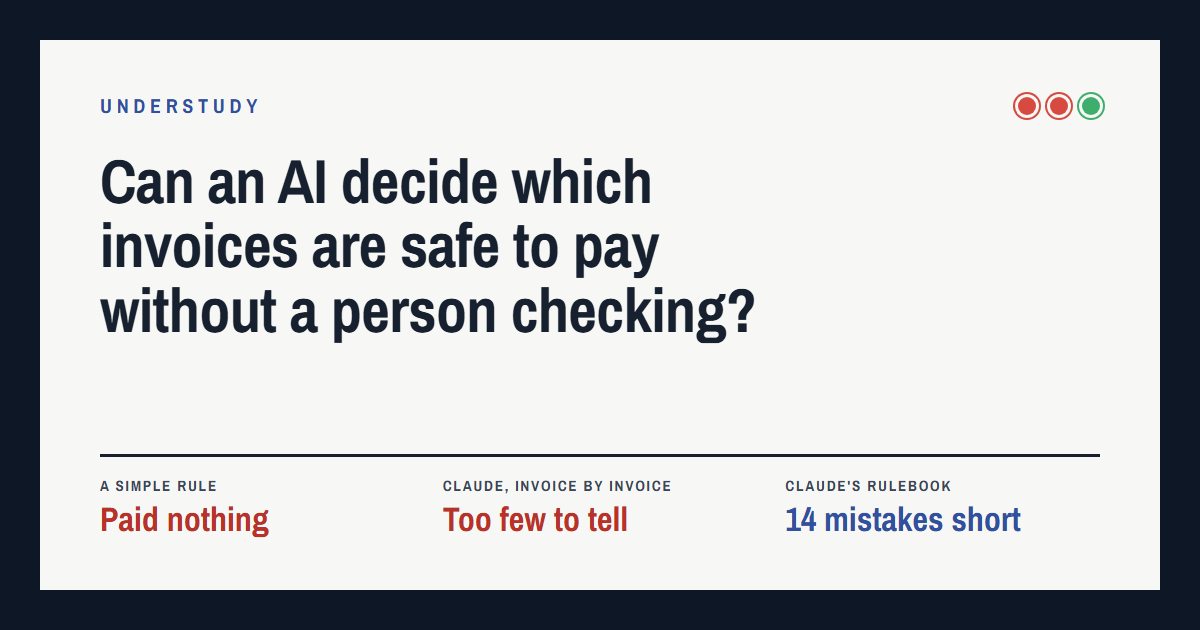
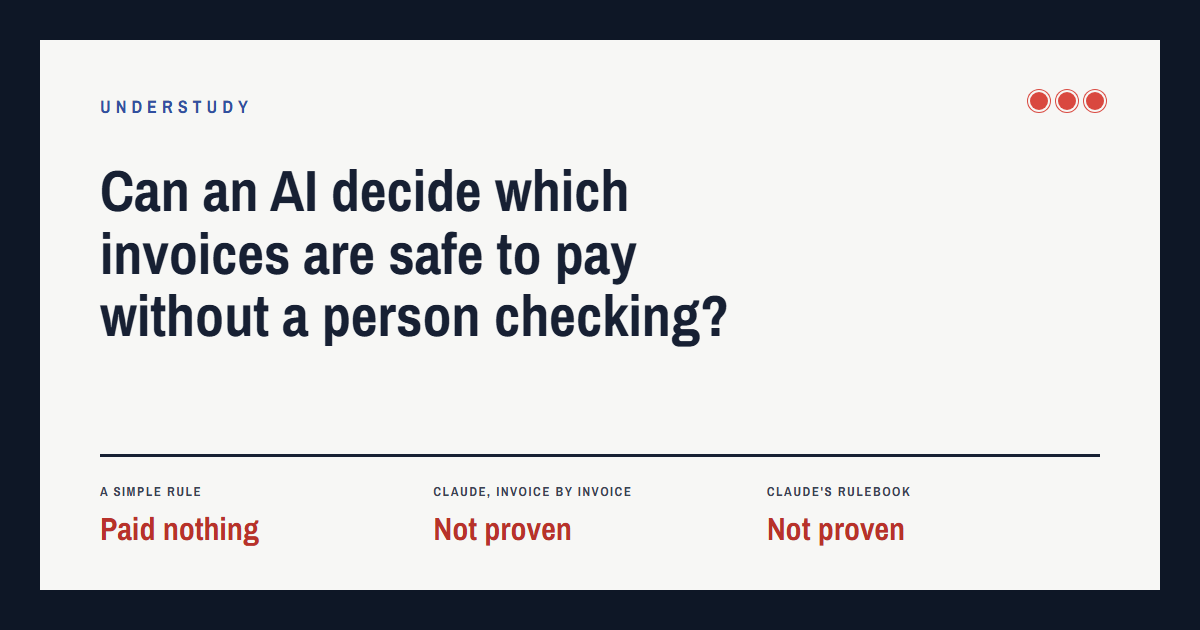
Not proven, not "N mistakes short"
The rulebook's result now reads "Not proven": about 99% right on what it
paid (99.07%), worst likely case 98.95%, and about 98.8% allowing for
invoices on the same order (purchase-order design effect 3.56; resampling
whole orders gives 98.85% to 99.27%). Paying every invoice is shown beside
it (96.85%), and so is the drop from the learning months' worst likely case
(99.57%) to the test's. "14 mistakes short", "a hair under" and "just
short of the proof" are gone from Q1, Q3 and Q9. Claude checking each
invoice reads "About 1% wrong", about the same as the rulebook on what it
paid while paying far fewer, instead of "Too few to tell". The share image
and its alt text say "Not proven" for both. The ADR 0016 verdict sentence
stays verbatim in the detail fold. Figures from data.json (evidence).

Claude-Session: https://claude.ai/code/session_017ejETrXEFeHX2B9QCMj5wj

diff --git a/site/app.js b/site/app.js
@@ -93,7 +93,7 @@ function biz(d) {
   <p><strong>Keeping it honest.</strong> I locked the test invoices before any approach ran, wrote each rule down before the run it governed, except one: I changed how the approaches are compared after one result was known, so I show the verdict under both rules (they agree). I published the results that went against me. A second program recounted the records independently.</p>
   <h3>The result</h3>
   ${summaryStrip(d)}
-  <p>None of the three proved the 99% bar. The simple rule paid nothing. Claude checking each invoice paid only ${b2 ? `${int(b2.b_alone.passed)} of ${int(b2.b_alone.n)} invoices in the follow-up (${int(b2.b_alone.wrong)} wrong)` : `${int(d.b.sample.passed)} of ${int(d.sample_n)}`}, too few to prove the bar, and costs about $${bPer1k.toFixed(2)} for every 1,000 invoices, for as long as it runs. Claude's rulebook paid ${pct(c.held_out.coverage[0] / d.held_out_n, 1)} of invoices and got ${pct(c.held_out.precision[0] / c.held_out.precision[1], 2)} of those right, a hair under the proof I asked for (worst likely case ${pct(c.held_out.precision_lower, 2)}). The rest of this section is about the rulebook, the only approach close enough to be worth a pilot.</p>
+  <p>None of the three proved the 99% bar. The simple rule paid nothing. Claude checking each invoice paid only ${b2 ? `${int(b2.b_alone.passed)} of ${int(b2.b_alone.n)} invoices in the follow-up (${int(b2.b_alone.wrong)} wrong)` : `${int(d.b.sample.passed)} of ${int(d.sample_n)}`}, too few to prove the bar, and costs about $${bPer1k.toFixed(2)} for every 1,000 invoices, for as long as it runs. Claude's rulebook paid ${pct(c.held_out.coverage[0] / d.held_out_n, 1)} of invoices and got ${pct(c.held_out.precision[0] / c.held_out.precision[1], 2)} of those right. That is not proven: its worst likely case is ${pct(c.held_out.precision_lower, 2)}, about ${pct(d.evidence.clustering.clustered_lower, 1)} allowing for invoices on the same order, against ${pct(d.bar.pass_everything.full.precision[0] / d.bar.pass_everything.full.precision[1], 2)} for paying every invoice. The rest of this section is about the rulebook, the only approach close enough to be worth a pilot.</p>
   <div class="cost biz-tiles">
   ${tile("Order lines it would have paid", `>${int(b.paid)}`, `of ${int(d.held_out_n)} in the ${word(b.months)} test months (${pct(b.paid / d.held_out_n, 1)}), in about ${int(b.groups_paid)} invoice groups`)}
   ${tile("Lines where the records show a person's own step", `>${pct(iso, 1)}`, `${int(fp.isolated_paid)} of ${int(b.paid)}: a step besides the clearing, not part of a bulk posting. A footprint, not proof of review.`)}
@@ -259,7 +259,8 @@ function q1(d) {
   const no = (t) => `<span class="state standby">${t}</span>`;
   const plain = `<h1 id="q1-h">Can an AI decide which invoices are safe to pay without a person checking?</h1>
   <p class="jump"><a href="#biz">Here for the business decision? Jump to the business case &rarr;</a><br><a href="rfp.html">Ready to run a pilot? Read the formal pilot request (RFP) &rarr;</a></p>
-  <p class="headline">Not at the bar I set. Claude's rulebook paid about half the invoices on its own and got about 99 in 100 of those right, just short of the proof I asked for.</p>
+  <p class="headline">Not proven at the bar I set. Claude's rulebook paid about half the invoices on its own and got about 99 in 100 of those right, but its worst likely case is under 99%.</p>
+  <p>${notProven(d)}</p>
   ${summaryStrip(d)}
   <h2 class="sub">Why this study</h2>
   <p>Many companies are deciding where AI should take on work that people do today. The evidence is often a demo, or a pilot that "looked good". I wanted a stricter test on real records: take one decision staff make thousands of times, let an AI make it, and check every call against what really happened.</p>
@@ -278,18 +279,18 @@ function q1(d) {
   <div class="tablewrap"><table class="score"><caption>What each AI did</caption><thead><tr><th>Approach</th><th>Paid without a check</th><th>Later needed fixing</th><th>Proved 99%?</th></tr></thead><tbody>
   <tr><td>Pay every invoice (for comparison)</td><td>${int(pe[1])}</td><td>${int(peWrong)} (${oneIn(pe[1], peWrong)})</td><td>${no("No")}</td></tr>
   <tr><td>1. Simple rule</td><td>${int(aPasses)}</td><td>&ndash;</td><td>${no("Paid nothing")}</td></tr>
-  <tr><td>2. Claude checking each invoice*</td><td>${int(bp)} of ${int(d.sample_n)}</td><td>${int(be)}</td><td>${no("Too few to tell")}</td></tr>
-  <tr class="chosen"><td>3. Claude's rulebook</td><td>${int(cn)} (${pct(cn / d.held_out_n, 0)})</td><td>${int(cWrong)} (${oneIn(cn, cWrong)})</td><td>${no("Just short")}</td></tr>
+  <tr><td>2. Claude checking each invoice*</td><td>${int(bp)} of ${int(d.sample_n)}</td><td>${int(be)}</td><td>${no("Not proven")}</td></tr>
+  <tr class="chosen"><td>3. Claude's rulebook</td><td>${int(cn)} (${pct(cn / d.held_out_n, 0)})</td><td>${int(cWrong)} (${oneIn(cn, cWrong)})</td><td>${no("Not proven")}</td></tr>
   </tbody></table></div>
   <p class="small">* Checking each invoice costs a request to the AI every time, so it was first tested on ${int(d.sample_n)} invoices, not all ${int(d.held_out_n)}. A follow-up on ${d.b2 && d.b2.b_alone ? int(d.b2.b_alone.n) : "more"} new invoices is in Q3.</p>
-  <p>Why "just short"? The rulebook paid ${int(cn)} invoices. To prove 99% with that many, at most ${int(allowed)} could need fixing. ${int(cWrong)} did: ${int(cWrong - allowed)} too many.</p>
+  <p>Why not proven? The rulebook paid ${int(cn)} invoices. To prove 99% with that many, at most ${int(allowed)} could need fixing; ${int(cWrong)} did. That count treats every invoice as independent. Many share an order, and allowing for that the worst likely case falls further, to ${pct(d.evidence.clustering.clustered_lower, 2)}.</p>
   <ul class="bars budget" aria-label="Rulebook mistakes against the most it could make and still prove 99%">
   <li><span class="name">Most it could make</span><span class="track" aria-hidden="true"><span class="fill ok" style="width:${(allowed / cWrong) * 100}%"></span></span><span class="val">${int(allowed)}</span></li>
   <li class="hit"><span class="name">What it made</span><span class="track" aria-hidden="true"><span class="fill" style="width:100%"></span></span><span class="val">${int(cWrong)}</span></li>
   </ul>
   ${openButton("c_wrong_held_out", `See the ${int(cWrong)} invoices the rulebook paid wrongly`)}`;
   const detail = `<p class="headline">${esc(headline)}</p>
-  <p><strong>What this means.</strong> None of the three earned trust. The simple rule never paid anything, so it never made a mistake, but it never saved any work either. Claude's rulebook paid ${pct(cn / d.held_out_n, 1)} of the test invoices without a check, and ${pct(ck / cn, 2)} of those were fine, so on average it met the bar. But its worst likely case (the "lower bound" above) is ${pct(c.held_out.precision_lower, 2)}, a hair under 99%. ${int(cWrong - allowed)} fewer mistakes out of ${int(cn)} would have changed the answer.</p>
+  <p><strong>What this means.</strong> None of the three earned trust. The simple rule never paid anything, so it never made a mistake, but it never saved any work either. Claude's rulebook paid ${pct(cn / d.held_out_n, 1)} of the test invoices without a check, and ${pct(ck / cn, 2)} of those were fine, so on average it met the bar. But its worst likely case (the "lower bound" above) is ${pct(c.held_out.precision_lower, 2)}, under 99%, so it is not proven. ${fitDrop(d)} ${clusterNote(d)}</p>
   ${boundPlot(d)}
   <div class="verdict">
   <p class="say"><b><s>First comparison rule</s> <em>replaced, kept on the record</em></b><span>Nothing reached a worst likely case of 99% on the shared sample (rulebook ${pct(cs, 1)}, checking each invoice ${pct(d.b.lower, 1)}), so the simple rule wins by default.</span></p>
@@ -303,14 +304,28 @@ function q1(d) {
   ]);
 }
 
+/* ---------- Not proven: the rulebook's result in plain words, with the figures that qualify it ---------- */
+function notProven(d) {
+  const c = d.policies.find((p) => p.chosen), [ck, cn] = c.held_out.precision, pe = d.bar.pass_everything.full.precision;
+  return `It was about 99% right on what it paid (${pct(ck / cn, 2)}), but not proven: the worst likely case is ${pct(c.held_out.precision_lower, 2)}, and about ${pct(d.evidence.clustering.clustered_lower, 1)} allowing for invoices on the same order. Paying every invoice with no checks at all would have been ${pct(pe[0] / pe[1], 2)} right. ${fitDrop(d)}`;
+}
+function fitDrop(d) {
+  const c = d.policies.find((p) => p.chosen);
+  return `In the learning months its worst likely case was ${pct(c.fit_lower, 2)}; on the test months it fell to ${pct(c.held_out.precision_lower, 2)}.`;
+}
+function clusterNote(d) {
+  const k = d.evidence.clustering;
+  return `The bound treats each invoice as independent. ${int(k.n)} invoices sit on ${int(k.orders)} orders, and mistakes cluster on orders (design effect ${k.deff.toFixed(2)}): allowing for that, the worst likely case is ${pct(k.clustered_lower, 2)}, and resampling whole orders gives ${pct(k.boot[0], 2)} to ${pct(k.boot[1], 2)}.`;
+}
+
 /* ---------- Q1 summary strip and invoice journey ---------- */
 function summaryStrip(d) {
-  const c = d.policies.find((p) => p.chosen), [ck, cn] = c.held_out.precision, short = cn - ck - maxErrors(cn);
+  const c = d.policies.find((p) => p.chosen), [ck, cn] = c.held_out.precision, pe = d.bar.pass_everything.full.precision[0] / d.bar.pass_everything.full.precision[1];
   const b2 = d.b2 && d.b2.b_alone ? d.b2.b_alone : null;
   const items = [
     ["A simple rule", "Paid nothing", "No kind of invoice had a clean enough record."],
-    ["Claude checking each invoice", "Too few to tell", b2 ? `Paid ${pct(b2.coverage, 1)} of ${int(b2.n)} new invoices; not proven.` : "Paid too few to prove anything."],
-    ["Claude's rulebook", `${int(short)} mistakes short`, `Paid ${pct(cn / d.held_out_n, 0)} of invoices, ${pct(ck / cn, 2)} fine.`],
+    ["Claude checking each invoice", b2 ? `About ${pct(b2.wrong / b2.passed, 0)} wrong` : "Not proven", b2 ? `On what it paid, about the same as the rulebook (${pct((cn - ck) / cn, 2)}), paying far fewer: ${pct(b2.coverage, 1)} of ${int(b2.n)} new invoices. Not proven.` : "Paid too few to prove anything."],
+    ["Claude's rulebook", "Not proven", `About 99% right on the ${pct(cn / d.held_out_n, 0)} it paid (worst likely case ${pct(c.held_out.precision_lower, 2)}; about ${pct(d.evidence.clustering.clustered_lower, 1)} allowing for orders). Paying everything: ${pct(pe, 2)}.`],
   ];
   const r = d.evidence.replay, t = d.replay.totals;
   const replayLine = `<p class="strip-note"><strong>Trust earned on outcomes (replay):</strong> ${int(t.passed)} paid, ${int(t.wrong)} needed correction, ${r.kinds === 1 ? `all in one kind` : `in ${word(r.kinds)} kinds`}, ${word(r.top_order)} on one order. Not proven either: ${pct(t.wrong / t.passed, 1)} needed correction.</p>`;
@@ -483,7 +498,7 @@ function paths(d) {
       verdict: `Not proven. It paid only ${int(each.paid)} of ${int(each.n)}, and ${int(each.fix)} needed fixing. Its worst likely case is ${pct(each.lower, 1)}, under 99%.` },
     { key: "c", label: "Rulebook", n: d.held_out_n, paid: cn, fix: cn - ck, where: `all ${int(d.held_out_n)} test invoices`,
       does: "Claude writes a short set of rules once; ordinary software applies them to every invoice.",
-      verdict: `Just short. It paid about half, and ${pct(ck / cn, 2)} of those were fine. Its worst likely case is ${pct(c.held_out.precision_lower, 2)}, a hair under 99%: ${int(cn - ck - allowed)} fewer mistakes would have passed.` },
+      verdict: `Not proven. It paid about half, and ${pct(ck / cn, 2)} of those were fine. Its worst likely case is ${pct(c.held_out.precision_lower, 2)}, under 99%, and about ${pct(d.evidence.clustering.clustered_lower, 1)} allowing for invoices on the same order.` },
   ];
 }
 const per1k = (x, n) => { const v = (x / n) * 1000; return v === 0 ? "0" : v < 10 ? v.toFixed(1) : int(v); };

diff --git a/site/index.html b/site/index.html
@@ -12,7 +12,7 @@
 <meta property="og:image" content="https://understudy.gurn3k.com/og.png">
 <meta property="og:image:width" content="1200">
 <meta property="og:image:height" content="630">
-<meta property="og:image:alt" content="Understudy. Can an AI decide which invoices are safe to pay without a person checking? A simple rule: paid nothing. Claude, invoice by invoice: too few to tell. Claude's rulebook: 14 mistakes short.">
+<meta property="og:image:alt" content="Understudy. Can an AI decide which invoices are safe to pay without a person checking? A simple rule: paid nothing. Claude, invoice by invoice: not proven. Claude's rulebook: not proven.">
 <meta name="twitter:card" content="summary_large_image">
 <link rel="icon" href="favicon.svg" type="image/svg+xml">
 <link rel="stylesheet" href="fonts/fonts.css">
